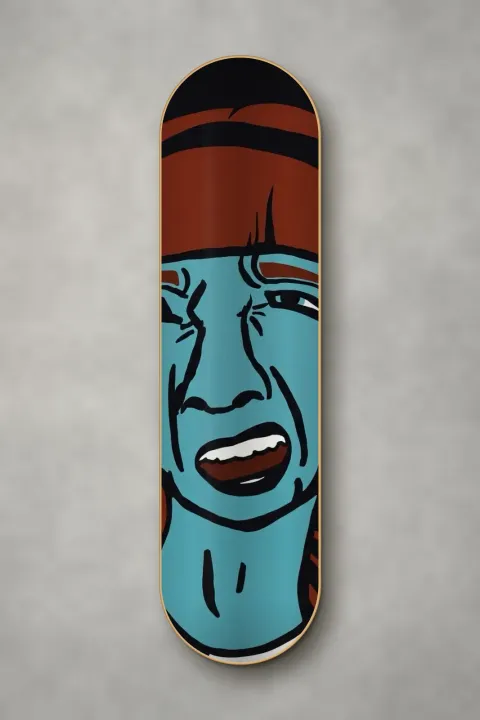
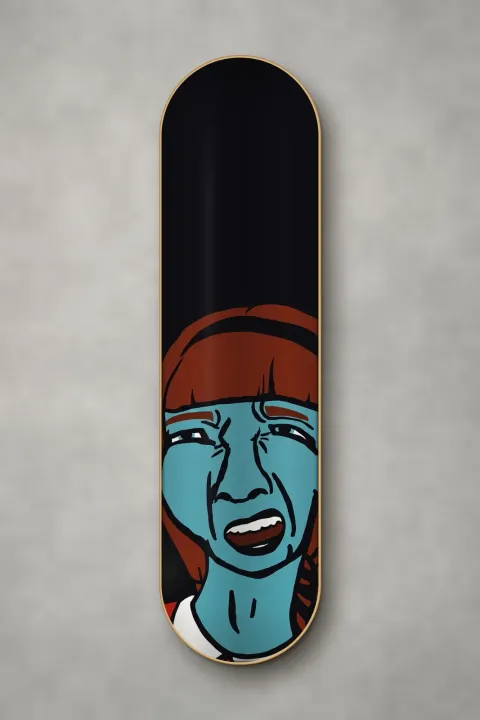
Gross skateboard mockup: whole face on a black deck
The deck mockup cover-cropped the art and cut off the hair, eyes and chin.
generate-mockups.js gains a contain fit (crop, centerY, feather, deck fill
sampled from the art). Gross is cropped to the face with both eyes kept,
enlarged to the deck width, and anchored so the collar reaches the tail.

Changed region(s): [[0.3125, 0.1222, 0.6875, 0.9472]]

diff --git a/scripts/generate-mockups.js b/scripts/generate-mockups.js
@@ -12,7 +12,9 @@
  *    canvas edge all sit OUTSIDE the art rectangle.
  *  - The skateboard is the one exception, on purpose: the art is cover-cropped into
  *    the deck outline and the deck's concave shading is multiplied/screened over it,
- *    because a flat print on a bent deck would read as a sticker.
+ *    because a flat print on a bent deck would read as a sticker. A deck item can
+ *    set `"fit": "contain"` instead, so the whole art (or its `crop`) fits the deck
+ *    width on a fill colour sampled from the art; see containTile.
  *  - Output is deterministic: seeded noise, no clocks, fixed WebP settings, so a
  *    re-run produces identical bytes.
  *
@@ -380,6 +382,80 @@ function deckPath(cx, top, len, wid) {
   );
 }
 
+/** Cover-crop: scale to fill the deck, crop horizontally at focusX, centre vertically. */
+async function coverTile(item, artPath, wid, len) {
+  const meta = await sharp(artPath).metadata();
+  const scale = Math.max(wid / meta.width, len / meta.height);
+  const sw = Math.max(wid, Math.round(meta.width * scale));
+  const sh = Math.max(len, Math.round(meta.height * scale));
+  const focusX = item.focusX == null ? 0.5 : item.focusX;
+  const cropX = Math.round((sw - wid) * clamp(focusX, 0, 1));
+  const cropY = Math.round((sh - len) / 2);
+  return sharp(artPath)
+    .resize(sw, sh, { fit: 'fill' })
+    .extract({ left: cropX, top: cropY, width: wid, height: len })
+    .toBuffer();
+}
+
+/**
+ * Contain: the whole art (or its `crop`, given as [x0, y0, x1, y1] fractions) is fitted
+ * to the deck width, placed at `centerY` (fraction of deck length), and the rest of the
+ * deck is filled with `deckColor` (default: the median of the art's top corners, so a
+ * dark background runs on as one piece). `feather` (fraction of deck width) softens the
+ * art's edges into that fill so no seam shows where the art stops.
+ */
+async function containTile(item, artPath, wid, len) {
+  const meta = await sharp(artPath).metadata();
+  const [x0, y0, x1, y1] = item.crop || [0, 0, 1, 1];
+  const region = {
+    left: Math.round(meta.width * x0),
+    top: Math.round(meta.height * y0),
+    width: Math.round(meta.width * (x1 - x0)),
+    height: Math.round(meta.height * (y1 - y0)),
+  };
+  const aw = wid;
+  const ah = Math.round((region.height * wid) / region.width);
+  if (ah > len) throw new Error(`contain: art is ${ah}px tall at deck width, deck is ${len}px`);
+
+  let fill = item.deckColor ? hexToRgb(item.deckColor) : null;
+  if (!fill) {
+    const { data, info } = await sharp(artPath).raw().toBuffer({ resolveWithObject: true });
+    const samples = [];
+    const n = Math.round(Math.min(info.width, info.height) * 0.03);
+    for (const [cx, cy] of [[n, n], [info.width - n, n]]) {
+      const o = (cy * info.width + cx) * info.channels;
+      samples.push([data[o], data[o + 1], data[o + 2]]);
+    }
+    fill = [0, 1, 2].map((c) => Math.round(samples.reduce((s, p) => s + p[c], 0) / samples.length));
+  }
+
+  // feather: one fraction for every edge, or [top, right, bottom, left]. An edge set to 0
+  // stays hard (the inset rect runs past it so the blur cannot soften it).
+  const fr = item.feather == null ? 0.06 : item.feather;
+  const [ft, frt, fb, fl] = (Array.isArray(fr) ? fr : [fr, fr, fr, fr]).map((v) => Math.round(wid * v));
+  const pad = (v) => (v ? v : -wid);
+  const sigma = Math.max(ft, frt, fb, fl) / 2;
+  const fade = svgBuf(
+    aw,
+    ah,
+    `<defs><filter id="b" filterUnits="userSpaceOnUse" x="${-wid}" y="${-wid}" width="${aw + 2 * wid}" height="${ah + 2 * wid}"><feGaussianBlur stdDeviation="${sigma}"/></filter></defs>` +
+      `<rect x="${pad(fl)}" y="${pad(ft)}" width="${aw - pad(fl) - pad(frt)}" height="${ah - pad(ft) - pad(fb)}" fill="#000" filter="url(#b)"/>`
+  );
+  const art = await sharp(artPath)
+    .extract(region)
+    .resize(aw, ah, { fit: 'fill' })
+    .ensureAlpha()
+    .composite([{ input: fade, blend: 'dest-in' }])
+    .png()
+    .toBuffer();
+
+  const top = Math.round(clamp(len * (item.centerY == null ? 0.5 : item.centerY) - ah / 2, 0, len - ah));
+  return sharp({ create: { width: wid, height: len, channels: 3, background: { r: fill[0], g: fill[1], b: fill[2] } } })
+    .composite([{ input: art, left: 0, top }])
+    .png()
+    .toBuffer();
+}
+
 async function skateboardBuffer(item, artPath, scene, W, H, box) {
   const len = Math.round(Math.min(H * DECK_LENGTH_FRAC, box ? box.h : Infinity, box ? box.w / DECK_WIDTH_RATIO : Infinity));
   const wid = Math.round(len * DECK_WIDTH_RATIO);
@@ -390,18 +466,7 @@ async function skateboardBuffer(item, artPath, scene, W, H, box) {
   const d = deckPath(cx, top, len, wid);
   const dLocal = deckPath(wid / 2, 0, len, wid);
 
-  // Cover-crop: scale to fill the deck, crop horizontally at focusX, centre vertically.
-  const meta = await sharp(artPath).metadata();
-  const scale = Math.max(wid / meta.width, len / meta.height);
-  const sw = Math.max(wid, Math.round(meta.width * scale));
-  const sh = Math.max(len, Math.round(meta.height * scale));
-  const focusX = item.focusX == null ? 0.5 : item.focusX;
-  const cropX = Math.round((sw - wid) * clamp(focusX, 0, 1));
-  const cropY = Math.round((sh - len) / 2);
-  const tile = await sharp(artPath)
-    .resize(sw, sh, { fit: 'fill' })
-    .extract({ left: cropX, top: cropY, width: wid, height: len })
-    .toBuffer();
+  const tile = item.fit === 'contain' ? await containTile(item, artPath, wid, len) : await coverTile(item, artPath, wid, len);
 
   const concave = svgBuf(
     wid,

diff --git a/LOGBOOK.md b/LOGBOOK.md
@@ -19,6 +19,19 @@ When this logbook exceeds ~1000 lines, split it:
 
 ---
 
+## Entry 173 - 2026-11-05
+
+**Agent:** Claude Code, claude-opus-5-5 (Serenade, VOID), main agent
+**Task:** Redo the Gross skateboard mockup so the whole face fits on the deck, on a black background.
+
+- The old deck cover-cropped the art and cut off the hair, eyes and chin. scripts/generate-mockups.js gains a `"fit": "contain"` mode (containTile): the art, or its `crop` given as fractions, is fitted to the deck width at `centerY`, and the rest of the deck is filled with the art's own corner colour (#0f0f12 range for Gross) or a `deckColor`. `feather` (one value, or [top, right, bottom, left]; 0 keeps an edge hard) blends the crop edges into that fill. Cover mode is unchanged for every other item.
+- Gross item in images/mockups/mockups.json: crop [0.21, 0.05, 0.71, 1] (Comet: bigger, sides shaved, eyes kept; the outer hair, most of the braid and the smoke cloud fall outside), feather [0.03, 0, 0, 0] (only the top fades into the black), centerY 1 (Comet: her collar should reach the bottom, so the art is anchored to the tail; the rounded tail clips the lower collar and shirt corners, and the top of the deck is plain black). Concrete scene kept.
+- Regenerated gross-skateboard.webp (30 KB) plus 480w/900w variants. The --only run also re-rendered gross-poster with slightly different bytes (sharp drift), which I reverted as unrelated.
+- Checks: npx playwright test tests/gallery-mockups.spec.js, 19 passed, 1 skipped. Looked at the full mockup and a zoomed crop: the whole head is visible, no seam where the crop meets the deck fill.
+- Not committed. A push would start a billed Netlify build, because scripts/ and public/ are outside the ignore rule.
+
+---
+
 ## Entry 172 - 2026-10-20
 
 **Agent:** Claude Code, claude-opus-5-5 (Quillfeather, VOID), main agent
